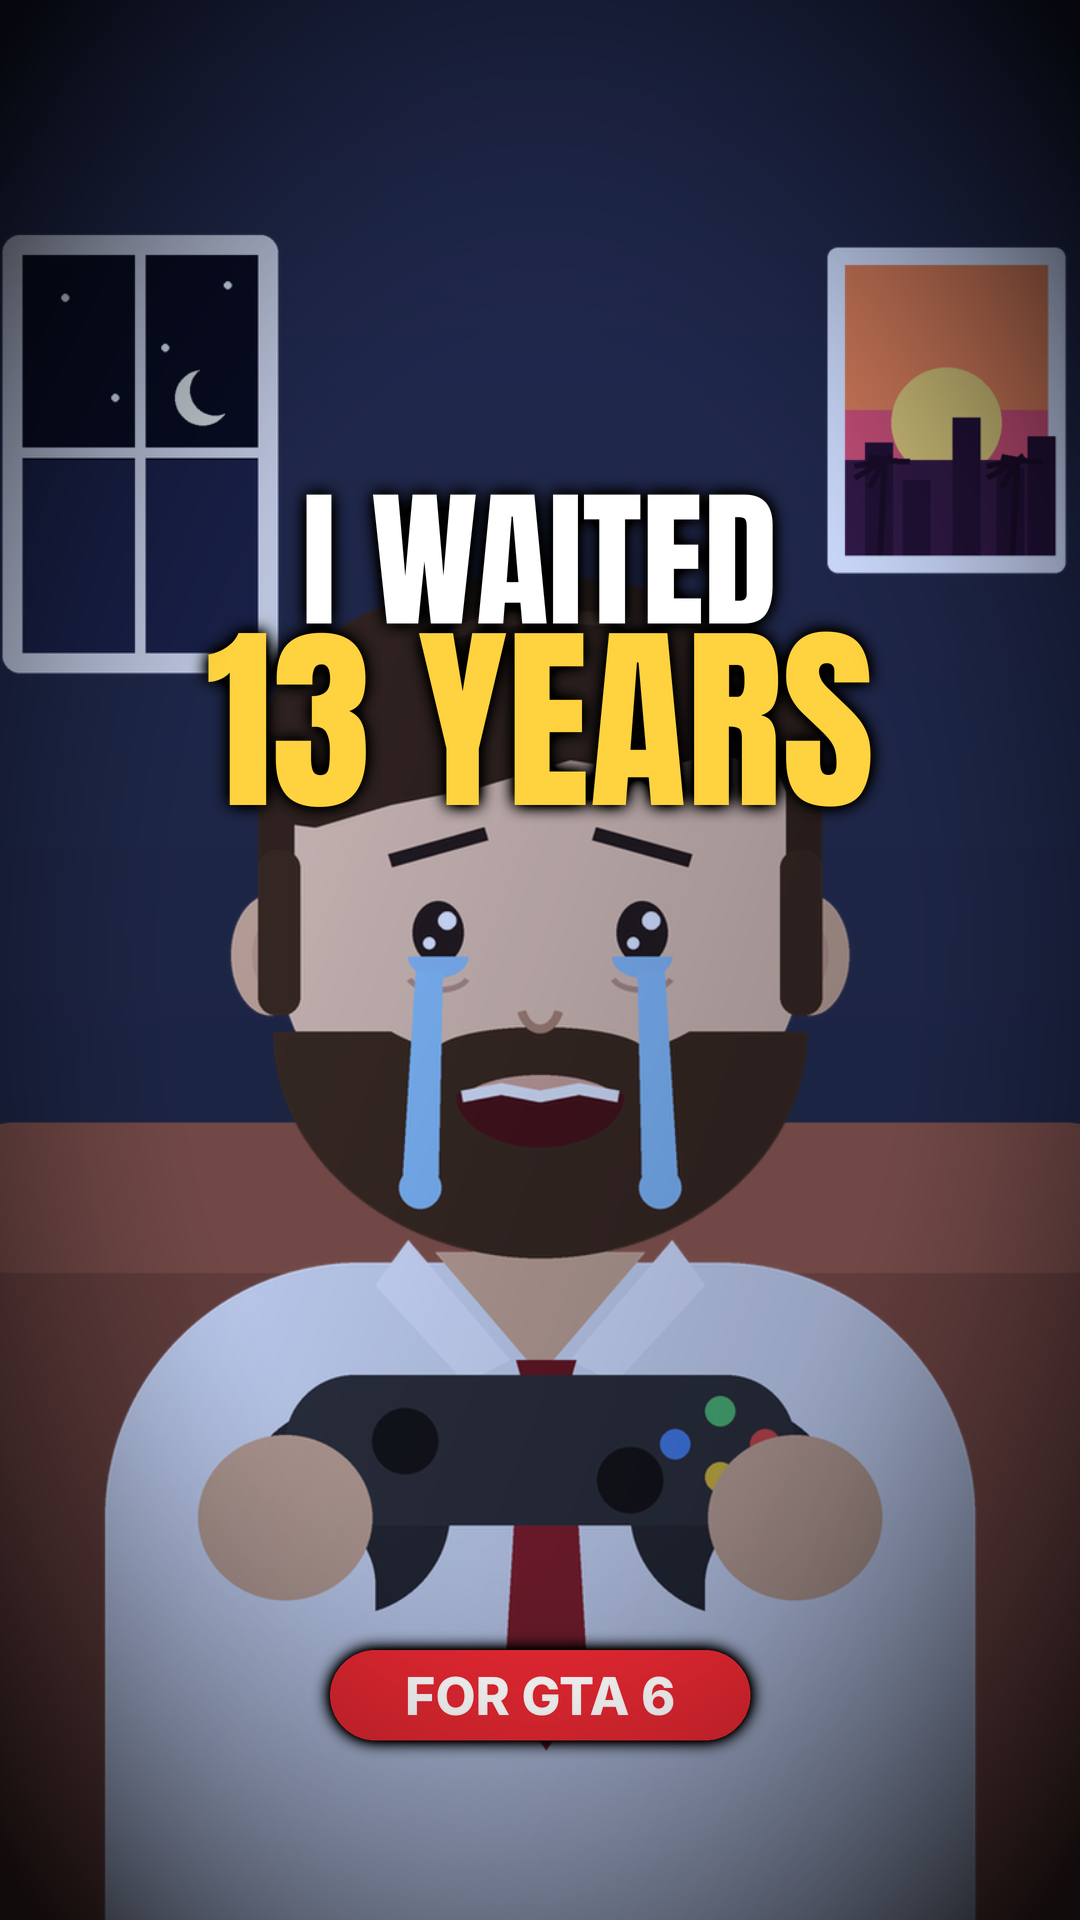
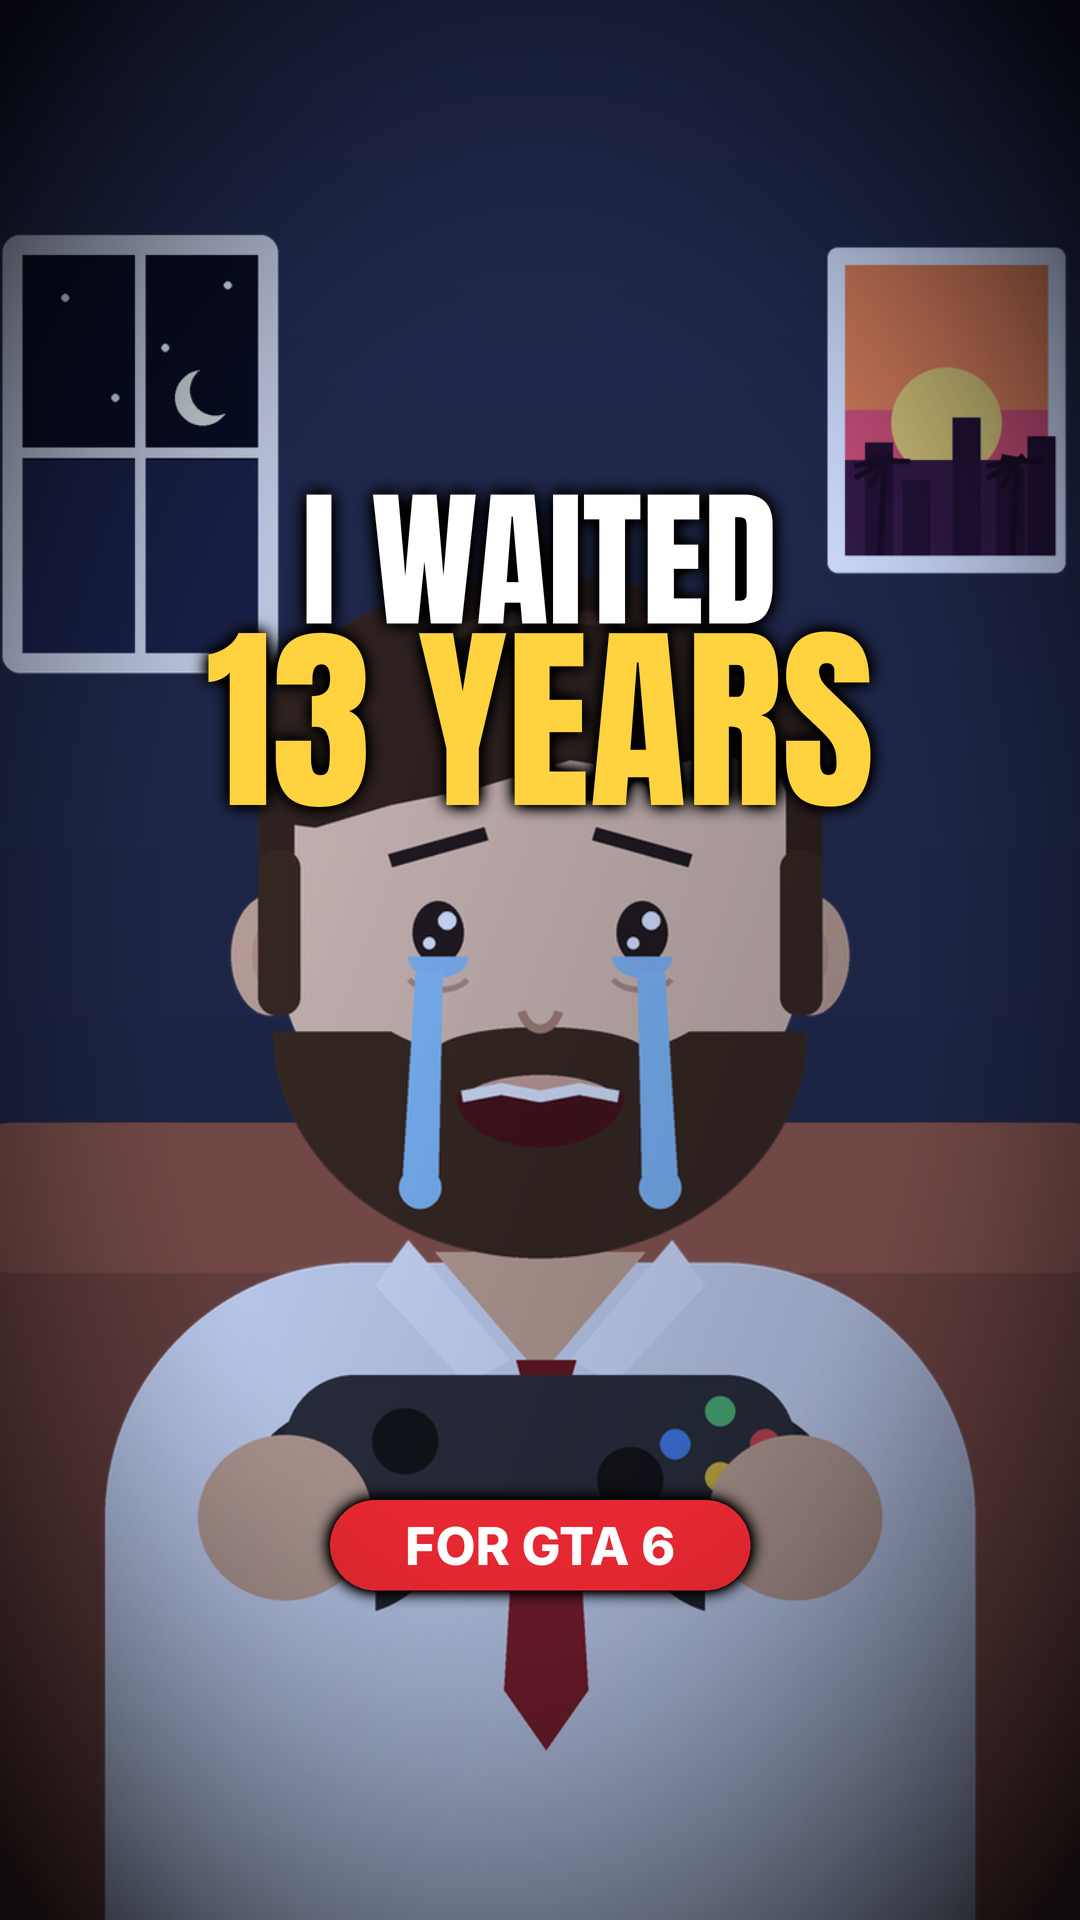
GTA 6 short: thumbnails (vertical A/B + YouTube 16:9) and posting kit
Claude-Session: https://claude.ai/code/session_01LXjaGMvss3a9BthpGKUWAi

Changed region(s): [[0.275, 0.75, 0.7028, 0.9375]]

diff --git a/POST_KIT_gta6_waited13years.md b/POST_KIT_gta6_waited13years.md
@@ -1,0 +1,70 @@
+# I WAITED 13 YEARS — GTA 6 · posting kit
+
+Video: `NEXT_MOVE_gta6_waited13years.mp4` (76 s, 1080×1920)
+
+Covers:
+- `brand/thumb_gta6_vertical.png`: Instagram cover / Shorts (main)
+- `brand/thumb_gta6_vertical_99.png`: alternate cover (A/B test)
+- `brand/thumb_gta6_youtube_16x9.png`: YouTube 16:9
+
+---
+
+## Instagram (Reel)
+
+**Caption:**
+```
+13 years. 99%. Power outage. 💀
+
+How old were you when GTA 5 came out? 👇
+Send this to the friend who waited with you.
+
+#gta6 #gaming #relatable
+```
+
+**Cover:** `thumb_gta6_vertical.png` (when you choose the cover, drag it so "I WAITED 13 YEARS" sits in the middle of the grid).
+
+**First comment** (post it yourself right after publishing, then pin it):
+```
+I was 12 😭 drop your age 👇
+```
+
+---
+
+## YouTube (Shorts)
+
+**Title** (≤ 100 characters):
+```
+I Waited 13 Years for GTA 6... 💀 #shorts
+```
+
+**Description:**
+```
+From age 12 to age 25. Two delays. One download. 99%...
+
+How old were you when GTA 5 came out? Comment below 👇
+Send this to the friend who waited with you.
+
+#gta6 #gaming #shorts
+```
+
+**Tags:**
+```
+gta 6, gta 6 release, gta 6 download, waiting for gta 6, gta 6 meme, gta 6 delay, gta 5, gaming meme, relatable gaming, gta 6 animation
+```
+
+**Thumbnail:** `thumb_gta6_youtube_16x9.png` (for desktop and search). On Shorts, choose the cover frame in the app: the first frame (crying + "GTA 6 IS OUT").
+
+---
+
+## TikTok (optional)
+```
+13 years for this 💀 how old were you when GTA 5 came out? #gta6 #gaming #relatable
+```
+
+---
+
+## Tips
+- **When to post:** today, while GTA 6 is still trending.
+- **First hour:** reply to every comment in the first 30–60 minutes, and ask "what age were you?" back.
+- **A/B test:** if views stop after 2 hours, change the IG cover to `thumb_gta6_vertical_99.png`.
+- **Pin:** pin the first comment.
